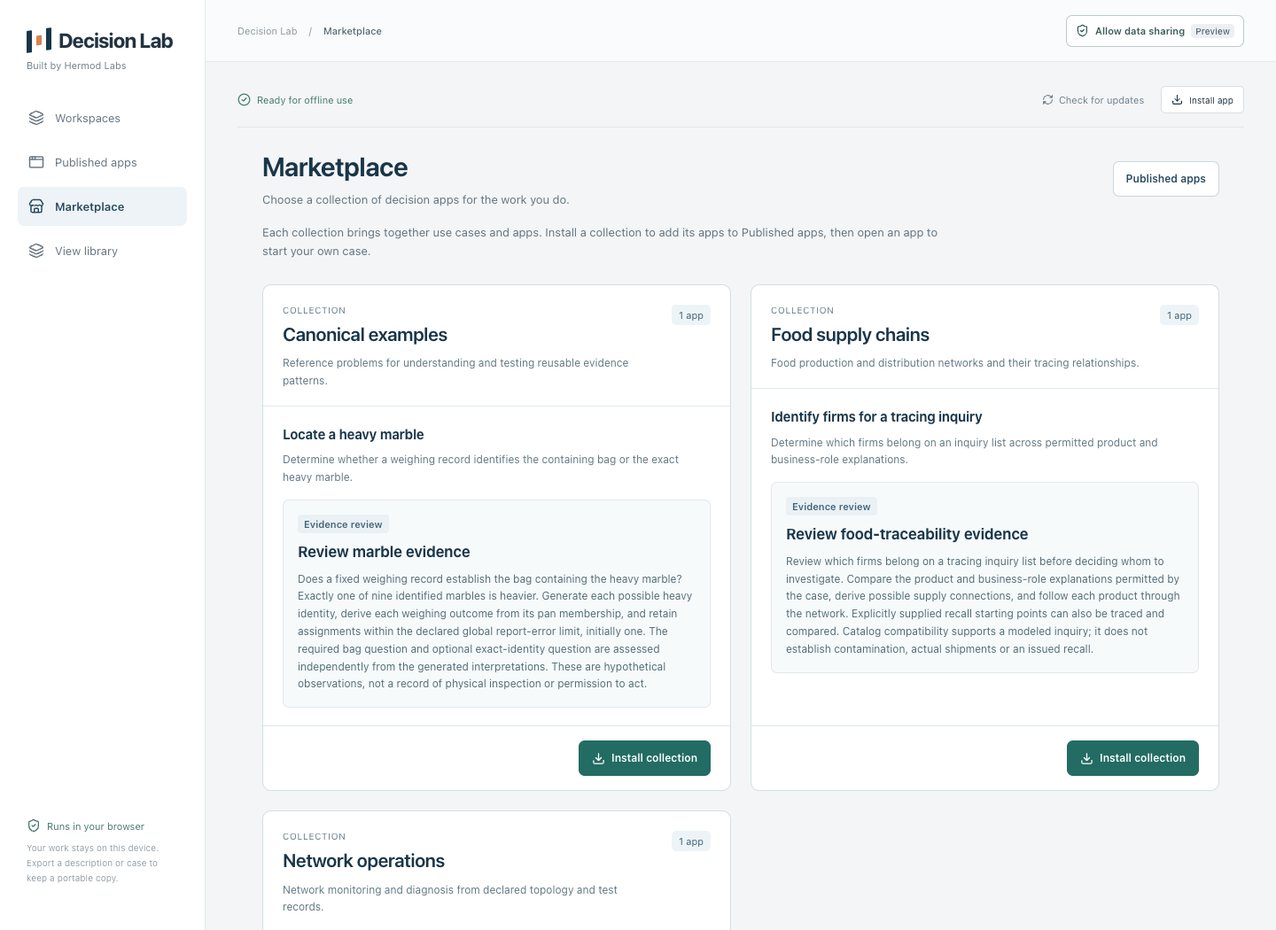
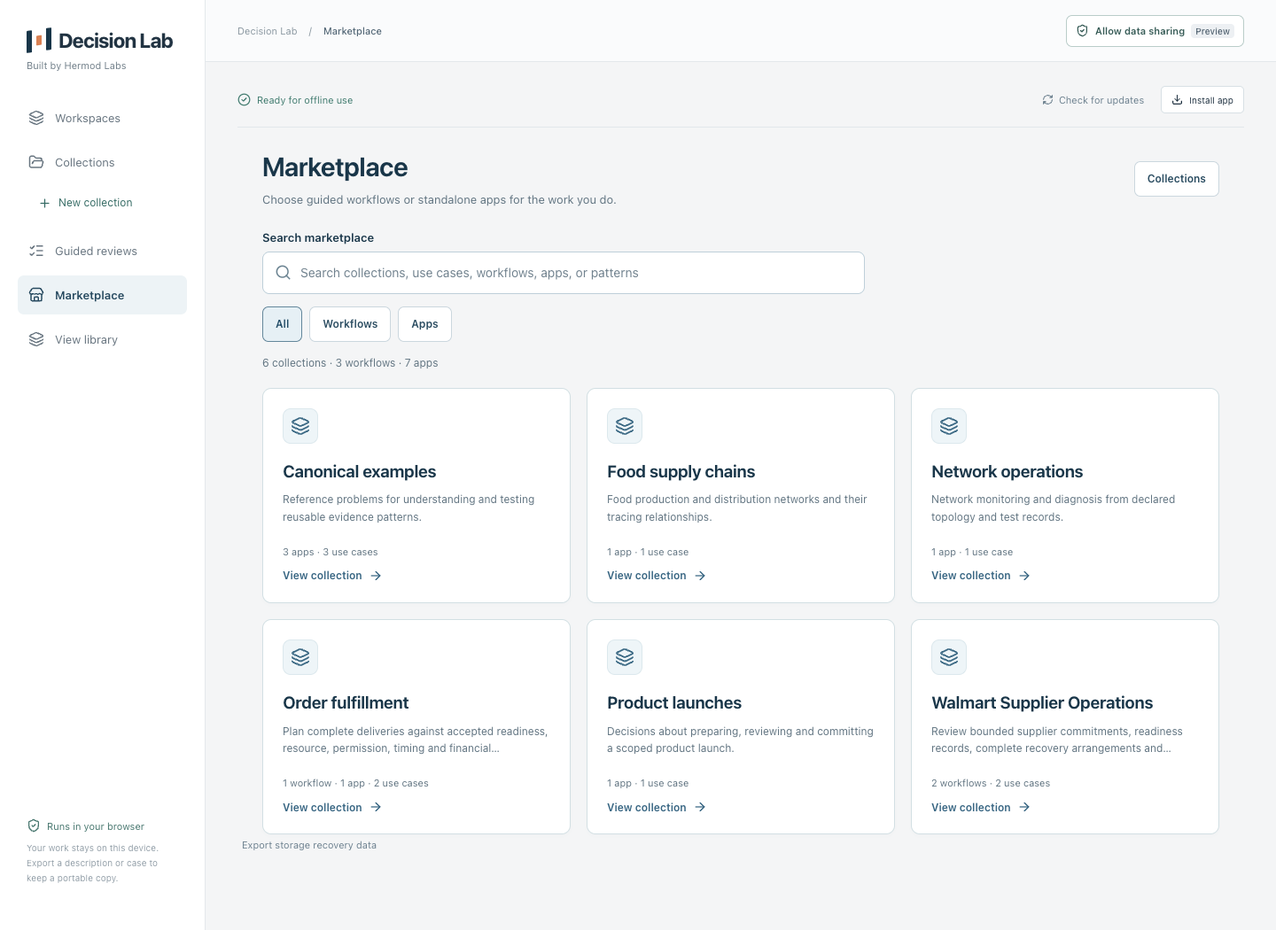
random changes

diff --git a/blog/announcing-decisionlab-marketplace/index.html b/blog/announcing-decisionlab-marketplace/index.html
@@ -15,17 +15,18 @@
 
 
   <title>Announcing DecisionLab Marketplace | Hermod Labs</title>
-  <meta name="description" content="Reusable templates become apps for your domain. Install a collection, choose a use case, and start your own case.">
+  <meta name="description" content="Find apps and guided workflows for your domain. Install a collection, open a case, review Excel input changes, and inspect the findings.">
   <meta name="author" content="Jonathan Nacionales, Founder, Hermod Labs">
 
   <link rel="canonical" href="https://hermodlabs.com/blog/announcing-decisionlab-marketplace/">
   <meta property="og:type" content="article">
   <meta property="og:site_name" content="Hermod Labs">
   <meta property="og:title" content="Announcing DecisionLab Marketplace | Hermod Labs">
-  <meta property="og:description" content="Reusable templates become apps for your domain. Install a collection, choose a use case, and start your own case.">
+  <meta property="og:description" content="Find apps and guided workflows for your domain. Install a collection, open a case, review Excel input changes, and inspect the findings.">
   <meta property="og:url" content="https://hermodlabs.com/blog/announcing-decisionlab-marketplace/">
   <meta property="og:image" content="https://hermodlabs.com/assets/hermod-wordmark.jpeg">
   <meta property="article:published_time" content="2026-11-14T00:00:00Z">
+  <meta property="article:modified_time" content="2026-11-17T00:00:00Z">
 
   <meta property="article:author" content="Jonathan Nacionales, Founder, Hermod Labs">
 
@@ -86,9 +87,9 @@
 </nav>
 
   <h1>Announcing DecisionLab Marketplace</h1>
-  <p class="reading-description blog-description">Reusable templates become apps for your domain. Install a collection, choose a use case, and start your own case.</p>
+  <p class="reading-description blog-description">Find apps and guided workflows for your domain. Install a collection, open a case, review Excel input changes, and inspect the findings.</p>
 
-  <p class="reading-meta blog-meta"><span class="article-author">Jonathan Nacionales, Founder, Hermod Labs</span> <span aria-hidden="true">·</span> <time datetime="2026-11-14">November 14, 2026</time> <span aria-hidden="true">·</span> 7 min read</p>
+  <p class="reading-meta blog-meta"><span class="article-author">Jonathan Nacionales, Founder, Hermod Labs</span> <span aria-hidden="true">·</span> <time datetime="2026-11-14">November 14, 2026</time> <span aria-hidden="true">·</span> <span class="blog-updated">Updated <time datetime="2026-11-17">November 17, 2026</time></span> <span aria-hidden="true">·</span> 9 min read</p>
   </div>
 
   <figure class="blog-article-cover reading-cover">
@@ -119,114 +120,153 @@
   <article class="reader-prose blog-prose" aria-label="Announcing DecisionLab Marketplace">
     <div class="reader-content">
 
-<p class="reader-lead">We’re introducing <strong>DecisionLab Marketplace</strong>: a place to discover and install decision apps organized around the work you do. Choose a domain collection, find a use case, and open an app to work on your own case.</p>
-<p>The idea connects three kinds of work. Template authors create reusable reasoning templates. App authors configure those templates for a particular domain and question. Case workers use the resulting apps with their own facts and evidence. Marketplace brings those apps together so people can find and use them.</p>
-<p><a href="https://hermodlabs.github.io/review_lab/">Open Decision Lab</a> and choose <strong>Marketplace</strong> in the sidebar to explore the collections available today.</p>
+<p class="reader-lead"><strong>DecisionLab Marketplace</strong> brings together apps and guided workflows for the decisions people work on. Find a collection for your domain, inspect the use cases it supports, and install it into your own Collections.</p>
+<p>From there, open an app for a particular case or start a guided review that connects several apps. Supply the information for your situation, inspect the findings, and decide what needs attention next.</p>
+<p>The idea connects three kinds of work. Template authors create reusable reasoning structures. App authors configure them for a domain and question, and connect apps into workflows where needed. Case workers use those published reviews with their own facts and evidence.</p>
+<p>The walkthrough below follows the current <strong>Food supply chains</strong> collection, from discovering its app to changing case inputs through Excel and reading the result. <a href="https://hermodlabs.github.io/review_lab/">Open Decision Lab</a> and choose <strong>Marketplace</strong> to follow along.</p>
 
 <h2 id="reusable-reasoning">A reusable foundation for domain apps</h2>
 <p>Many decisions share a structure even when their subject matter differs. A network operator may ask which equipment a set of test results implicates. A supply-chain analyst may ask which firms belong on a tracing inquiry list. Each needs to understand what the available evidence establishes, which explanations remain possible, and where an answer is still unresolved.</p>
-<p>A template captures that reusable reasoning structure. An app gives it the vocabulary, rules, questions, and starting information for a particular kind of work. A case supplies the specific situation being examined.</p>
-<p>The current collections illustrate this with the <strong>Evidence review</strong> pattern, built on the <strong>Establish the required answer</strong> template. Food tracing, network diagnosis, and the heavy-marble reference example use that shared foundation while keeping their own domain meanings and assumptions.</p>
+<p>A <strong>template</strong> captures a reusable checking or reasoning structure. An <strong>app</strong> gives it the vocabulary, rules, questions, and starting information for a particular kind of work. A <strong>case</strong> is a saved review of one situation, with its particular facts and evidence.</p>
+<p>Food tracing, network diagnosis, and the heavy-marble reference example illustrate the <strong>Evidence review</strong> pattern, built on the <strong>Establish the required answer</strong> template. They share a foundation while keeping their own domain meanings and assumptions. Other reviews examine whether a complete arrangement meets its requirements or whether learning something before committing would be useful.</p>
 
 <h2 id="three-roles">Three roles, connected by the same model</h2>
 
 <h3 id="template-authors">Template authors create the reusable structure</h3>
-<p>The template creation tool is where template authors define a reusable kind of reasoning: the information a model needs, the rules for assessing a question, and the findings and reports it can produce. They establish what the template’s results mean and the conditions under which the reasoning can be used.</p>
+<p>Template authors define a reusable kind of reasoning: the information a model needs, the structure for assessing a question, and the findings and reports it can produce. The tools for authoring templates capture that definition so it can be reused. Authors establish what the results mean and the conditions under which the reasoning can be used.</p>
 <p>That work gives app authors a common foundation. An evidence-review template, for example, provides a way to examine the explanations compatible with a record and determine whether they establish the required answer.</p>
 
 <h3 id="app-authors">App authors configure it for a domain and use case</h3>
 <p>App authors turn the template into something a domain specialist can use. They define the relevant objects and relationships, the possible explanations, the evidence rules, the questions to ask, and the wording of the reports. They also supply the app’s starting case and defaults.</p>
 <p>For food tracing, that means firms, products, business roles, and possible supply relationships. For network diagnosis, it means equipment, network paths, and test reports. The shared reasoning pattern remains useful because these domain meanings are made explicit.</p>
-<p>In the current browser application, authors work in <strong>Workspaces</strong>, starting from a template or an editable example. The authoring interface uses YAML with reports alongside it. Publishing an app fixes its rules and starting defaults in a release that other people can use.</p>
+<p>Authors prepare their models in <strong>Workspaces</strong>, starting from a template or an editable example and inspecting the reports alongside the configuration. Publishing an app fixes its rules and starting defaults in a release that other people can use.</p>
+<p>For a decision that needs several connected reviews, an author can prepare a <strong>guided workflow</strong>: which questions people answer, who reviews them, which apps calculate findings, and how those findings feed the next step. The workflow keeps the shared case information and the included app versions connected.</p>
 
 <h3 id="case-workers">Case workers apply the app to a specific situation</h3>
-<p>Case workers—analysts, reviewers, operators, and the people responsible for the work—open a published app and start an independent case. They provide the facts, evidence, scope, and exposed parameters for that situation, then inspect the resulting findings and explanations.</p>
-<p>They can revise the case as information changes. The published app supplies the shared rules; changes to those rules belong in a new authored app release. This lets an app author maintain a reusable model while different people work on separate cases.</p>
+<p>Case workers—analysts, reviewers, operators, and the people responsible for the work—open an app or start a guided review from an installed collection. They supply and review the information for their situation, then inspect the findings and explanations.</p>
+<p>An app can expose its case inputs through an Excel workbook, alongside the YAML editor and reports. A guided review also organizes questions, responsibilities, and the acceptance of calculated findings. Importing inputs, accepting a review result, and authorizing an actual business action are separate activities.</p>
+<p>Workers can revise case information as conditions change. The published release supplies the shared rules; changing those rules requires a new authored release. Separate cases can therefore use the same model without becoming the same investigation or decision.</p>
 
 <h2 id="collections-and-use-cases">Organized around your domain and the question you need to answer</h2>
-<p>We organize the apps into <strong>collections</strong> for specific domains. Within a collection, <strong>use cases</strong> describe the work or question. Each use case groups the <strong>apps</strong> that support it.</p>
-<div class="blog-table-scroll" role="region" tabindex="0" aria-label="Domain collections, use cases, and apps available at launch">
+<p>We organize apps and workflows into <strong>collections</strong> for specific domains. Within each collection, <strong>use cases</strong> describe the work or question. Each use case groups the apps and guided workflows that support it.</p>
+<div class="blog-table-scroll" role="region" tabindex="0" aria-label="Examples of domain collections, use cases, apps and workflows">
   <table>
-    <caption>Collections available in the Marketplace on November 14, 2026</caption>
-    <thead><tr><th scope="col">Domain collection</th><th scope="col">Use case</th><th scope="col">App</th></tr></thead>
+    <caption>Examples from the Marketplace</caption>
+    <thead><tr><th scope="col">Domain collection</th><th scope="col">Use case</th><th scope="col">App or workflow</th></tr></thead>
     <tbody>
       <tr><th scope="row">Food supply chains</th><td>Identify firms for a tracing inquiry</td><td>Review food-traceability evidence</td></tr>
       <tr><th scope="row">Network operations</th><td>Locate network faults</td><td>Localize network faults</td></tr>
       <tr><th scope="row">Canonical examples</th><td>Locate a heavy marble</td><td>Review marble evidence</td></tr>
+      <tr><th scope="row">Order fulfillment</th><td>Review a first shipment</td><td>Review a first shipment (guided workflow)</td></tr>
     </tbody>
   </table>
 </div>
-<p>This gives you two ways to recognize a useful app: the domain tells you where it belongs, and the use case tells you what it helps you examine. The pattern badge identifies the reusable reasoning behind it. A collection brings the relevant apps together in one installable group.</p>
+<p>The domain tells you where a collection belongs; the use case tells you what its apps and workflows help you examine. The <strong>All</strong>, <strong>Workflows</strong>, and <strong>Apps</strong> filters help you browse the kind of review you need.</p>
+<p>A <strong>standalone app</strong> answers its configured question for an independent case. A <strong>guided workflow</strong> connects several questions and app results into one review. In Collections, use <strong>Use app</strong> for an app or <strong>Start review</strong> for a workflow. The <a href="../../use-cases/shipment-readiness/index.html">shipment readiness use case</a> explains how connected reviews fit a wider business process.</p>
 
 <h2 id="install-a-collection">Install a collection in Decision Lab</h2>
-<p>Here is the process using <strong>Food supply chains</strong>. These screenshots come from the public application, captured in a fresh browser session on November 14, 2026.</p>
+<p>Start with <strong>Food supply chains</strong>. Its app helps examine which firms belong on a tracing inquiry list under the supplied evidence and assumptions. The worked case is fictional; use it to learn the process before replacing its information with your own.</p>
 
 <h3 id="open-marketplace">1. Open Marketplace and find your collection</h3>
-<p>Go to <a href="https://hermodlabs.github.io/review_lab/">Decision Lab</a> and select <strong>Marketplace</strong> in the sidebar. The collection cards show the domain, its use cases, and the apps included.</p>
-<p>Find <strong>Food supply chains</strong>. Its use case is <strong>Identify firms for a tracing inquiry</strong>, and the included app is <strong>Review food-traceability evidence</strong>. Read that description to check that it addresses the question you have.</p>
+<p>Go to <a href="https://hermodlabs.github.io/review_lab/">Decision Lab</a> and select <strong>Marketplace</strong> in the sidebar. Search by the work you do or browse the collection cards. Each card summarizes its domain and the apps, workflows, and use cases it contains.</p>
 
 
 
 <figure class="blog-figure" id="figure-1">
   <div class="blog-figure-scroll" role="region" tabindex="0" aria-labelledby="figure-1-caption">
-    <a href="../../assets/blog/marketplace/figure-01.png" aria-label="Open screenshot 1 at full size"><img src="../../assets/blog/marketplace/figure-01.png" width="1440" height="1050" alt="Decision Lab Marketplace with Canonical examples and Food supply chains collection cards. Food supply chains contains Identify firms for a tracing inquiry and Review food-traceability evidence, followed by an Install collection button." loading="lazy" decoding="async"></a>
+    <a href="../../assets/blog/marketplace/figure-01.png" aria-label="Open screenshot 1 at full size"><img src="../../assets/blog/marketplace/figure-01.png" width="1440" height="1050" alt="Decision Lab Marketplace with six compact collection cards, search, and All, Workflows and Apps filters." loading="lazy" decoding="async"></a>
   </div>
   <p class="scroll-hint blog-figure-hint">Scroll to inspect the screenshot, or open it at full size.</p>
-  <figcaption id="figure-1-caption"><strong>Screenshot 1.</strong> Open Marketplace and choose a domain collection. The Food supply chains card shows its use case and app, with Install collection at the bottom. <a href="../../assets/blog/marketplace/figure-01.png">Open full size</a></figcaption>
+  <figcaption id="figure-1-caption"><strong>Screenshot 1.</strong> Browse domain collections, then open a collection to inspect its use cases, apps and guided workflows. <a href="../../assets/blog/marketplace/figure-01.png">Open full size</a></figcaption>
 </figure>
 
 
-<h3 id="install-collection">2. Select Install collection</h3>
-<p>Select <strong>Install collection</strong> on the Food supply chains card. Decision Lab adds the collection’s published apps to this browser and automatically opens <strong>Published apps</strong>.</p>
-<p>You will now see the installed collection grouped by use case, with its app version and controls for using, sharing, or exporting the app.</p>
+<h3 id="install-collection">2. Inspect the collection, then install it</h3>
+<p>Select <strong>View collection</strong> on the Food supply chains card. The details show the use case <strong>Identify firms for a tracing inquiry</strong> and its standalone app, <strong>Review food-traceability evidence</strong>. Read the question and scope to check that they fit your work.</p>
 
 
 
 <figure class="blog-figure" id="figure-2">
   <div class="blog-figure-scroll" role="region" tabindex="0" aria-labelledby="figure-2-caption">
-    <a href="../../assets/blog/marketplace/figure-02.png" aria-label="Open screenshot 2 at full size"><img src="../../assets/blog/marketplace/figure-02.png" width="1440" height="1050" alt="Published apps after installing Food supply chains. A use-case row contains Review food-traceability evidence, version 1, with Use app, Copy app link, and Export controls." loading="lazy" decoding="async"></a>
+    <a href="../../assets/blog/marketplace/figure-02.png" aria-label="Open screenshot 2 at full size"><img src="../../assets/blog/marketplace/figure-02.png" width="1440" height="1050" alt="Food supply chains collection details showing Identify firms for a tracing inquiry, Review food-traceability evidence, and Install collection." loading="lazy" decoding="async"></a>
   </div>
   <p class="scroll-hint blog-figure-hint">Scroll to inspect the screenshot, or open it at full size.</p>
-  <figcaption id="figure-2-caption"><strong>Screenshot 2.</strong> After installation, Decision Lab opens Published apps. The Food supply chains collection is now available locally, with Use app beside its published release. <a href="../../assets/blog/marketplace/figure-02.png">Open full size</a></figcaption>
+  <figcaption id="figure-2-caption"><strong>Screenshot 2.</strong> Food supply chains contains a tracing-inquiry use case and its evidence-review app. Install collection adds this release to Collections on this device. <a href="../../assets/blog/marketplace/figure-02.png">Open full size</a></figcaption>
 </figure>
 
-<p>The <strong>Install collection</strong> button belongs to the collection card. The separate <strong>Install app</strong> control at the top concerns installing Decision Lab itself as a browser app.</p>
-
-<h2 id="from-app-to-case">From an installed app to your own case</h2>
-
-<h3 id="use-app">3. Choose Use app</h3>
-<p>Under Review food-traceability evidence, select <strong>Use app</strong>. This creates an independent case from that app’s published defaults. Installing the collection makes the apps available; opening an app starts the case you will work on.</p>
-<p>The current interface lets you edit the <strong>case YAML</strong> and inspect <strong>Findings</strong>, <strong>Explanations</strong>, and the <strong>Review record</strong>. Valid case YAML updates the reports automatically, and <strong>Run review</strong> is also available.</p>
+<p>Choose <strong>Install collection</strong> in this details panel. Decision Lab installs the collection and opens <strong>Collections</strong>, with Food supply chains selected. Its name also appears beneath Collections in the sidebar.</p>
 
 
 
 <figure class="blog-figure" id="figure-3">
   <div class="blog-figure-scroll" role="region" tabindex="0" aria-labelledby="figure-3-caption">
-    <a href="../../assets/blog/marketplace/figure-03.png" aria-label="Open screenshot 3 at full size"><img src="../../assets/blog/marketplace/figure-03.png" width="1440" height="1050" alt="A new food-traceability evidence case showing editable canonical case YAML on the left and Findings on the right. The synthetic example has an established Pacific Market inquiry finding and an unresolved Lake Market finding." loading="lazy" decoding="async"></a>
+    <a href="../../assets/blog/marketplace/figure-03.png" aria-label="Open screenshot 3 at full size"><img src="../../assets/blog/marketplace/figure-03.png" width="1440" height="1050" alt="Installed Food supply chains collection with Review food-traceability evidence, version 4, and its Use app control." loading="lazy" decoding="async"></a>
   </div>
   <p class="scroll-hint blog-figure-hint">Scroll to inspect the screenshot, or open it at full size.</p>
-  <figcaption id="figure-3-caption"><strong>Screenshot 3.</strong> Use app starts an independent case from the published defaults. The current interface places case YAML beside Findings, Explanations, and Review record. This is the supplied synthetic example. <a href="../../assets/blog/marketplace/figure-03.png">Open full size</a></figcaption>
+  <figcaption id="figure-3-caption"><strong>Screenshot 3.</strong> The installed collection opens in Collections. Use app starts a separate case from this published release. <a href="../../assets/blog/marketplace/figure-03.png">Open full size</a></figcaption>
 </figure>
 
-<p>The screenshot shows the supplied synthetic food-tracing example. Its findings concern the modeled inquiry and its assumptions. For your own case, review the starting inputs, enter the relevant information, and inspect the explanations and scope of the result. The app’s finding supports your review; people remain responsible for investigation and action.</p>
+<p>The table groups installed products by use case. This collection contains a standalone app with <strong>Use app</strong>. Collections that include guided workflows also offer <strong>Start review</strong>. The separate <strong>Install app</strong> control near the top installs Decision Lab itself as a browser app.</p>
 
-<h3 id="return-to-your-apps">4. Return to the installed collection</h3>
-<p>You can return to <strong>Published apps</strong> to find the releases you installed. In Marketplace, the collection now shows <strong>Installed</strong> and <strong>View apps</strong>, giving you a direct route back to those apps.</p>
+<h2 id="from-app-to-case">From an installed app to your own case</h2>
+
+<h3 id="use-app">3. Choose Use app</h3>
+<p>Under Review food-traceability evidence, select <strong>Use app</strong>. This starts an independent case with the supplied fictional inputs. Installing a collection makes its products available; opening an app creates the case you will work on.</p>
+<p>The layout control offers <strong>YAML</strong>, <strong>Both</strong>, and <strong>Reports</strong>. Choose Both to see the case inputs alongside the findings. The input area also provides <strong>Download Excel</strong>, <strong>Upload Excel</strong>, and <strong>Start another case</strong>.</p>
 
 
 
 <figure class="blog-figure" id="figure-4">
   <div class="blog-figure-scroll" role="region" tabindex="0" aria-labelledby="figure-4-caption">
-    <a href="../../assets/blog/marketplace/figure-04.png" aria-label="Open screenshot 4 at full size"><img src="../../assets/blog/marketplace/figure-04.png" width="1440" height="1050" alt="Marketplace after installation. The Food supply chains collection now displays Installed and View apps, while the other collections still offer Install collection." loading="lazy" decoding="async"></a>
+    <a href="../../assets/blog/marketplace/figure-04.png" aria-label="Open screenshot 4 at full size"><img src="../../assets/blog/marketplace/figure-04.png" width="1440" height="1050" alt="A fictional food-traceability case with Download Excel, Upload Excel, Start another case, canonical YAML, and findings for Pacific Market and Lake Market." loading="lazy" decoding="async"></a>
   </div>
   <p class="scroll-hint blog-figure-hint">Scroll to inspect the screenshot, or open it at full size.</p>
-  <figcaption id="figure-4-caption"><strong>Screenshot 4.</strong> Return to Marketplace to see the collection marked Installed. View apps takes you back to the releases you installed. <a href="../../assets/blog/marketplace/figure-04.png">Open full size</a></figcaption>
+  <figcaption id="figure-4-caption"><strong>Screenshot 4.</strong> Both places the supplied fictional case inputs beside the findings. Download Excel and Upload Excel offer a workbook route for editing those inputs. <a href="../../assets/blog/marketplace/figure-04.png">Open full size</a></figcaption>
 </figure>
 
-<p>Your work is saved in this browser. Use <strong>Export case</strong> to keep a portable copy of a case. <strong>Copy app link</strong> shares the published app version and its starting defaults, so another person can begin a separate case.</p>
+<p>The starting information helps you explore the app. Review every supplied value before using the case for your own work. The published app’s rules remain fixed while you change the case’s facts, evidence, and exposed parameters.</p>
+
+<h3 id="review-excel-inputs">4. Bring case information through Excel</h3>
+<p>Select <strong>Download Excel</strong> to get a workbook prefilled with this case’s inputs. Open <strong>What you can edit in Excel</strong> to see which inputs are mapped to worksheets. Edit those input sheets, keeping the workbook’s structure and reference information in place.</p>
+<p>For this example, change <strong>Firm to review</strong> on the <strong>Parameters</strong> worksheet from <code>F11</code> (Pacific Market) to <code>F09</code> (Lake Market). The other supplied facts stay the same.</p>
+<p>Save the workbook, then choose <strong>Upload Excel</strong>. Decision Lab opens <strong>Review workbook changes</strong>, where you can inspect the added, removed, and changed inputs before applying them.</p>
+
+
+
+<figure class="blog-figure" id="figure-5">
+  <div class="blog-figure-scroll" role="region" tabindex="0" aria-labelledby="figure-5-caption">
+    <a href="../../assets/blog/marketplace/figure-05.png" aria-label="Open screenshot 5 at full size"><img src="../../assets/blog/marketplace/figure-05.png" width="1440" height="1050" alt="Review workbook changes dialog showing Parameters: Firm to review, with zero added, zero removed, and one changed value, plus Cancel and Apply inputs." loading="lazy" decoding="async"></a>
+  </div>
+  <p class="scroll-hint blog-figure-hint">Scroll to inspect the screenshot, or open it at full size.</p>
+  <figcaption id="figure-5-caption"><strong>Screenshot 5.</strong> Uploading the edited workbook previews one change to Firm to review. The current inputs remain unchanged until Apply inputs is selected. <a href="../../assets/blog/marketplace/figure-05.png">Open full size</a></figcaption>
+</figure>
+
+<p>Check the proposed case inputs and choose <strong>Apply inputs</strong>. Uploading the workbook creates a preview; applying it updates the case. If the workbook needs attention, use the worksheet and cell details to correct the issue and try again.</p>
+<p>This changes the information in the case. The app continues to use the same published rules.</p>
+
+<h3 id="read-the-findings">5. Read the findings and their explanations</h3>
+<p>Wait for <strong>Reports current</strong>, then choose the <strong>Reports</strong> layout. In this app, <strong>Findings</strong> gives the answers, <strong>Explanations</strong> lets you examine their basis, and <strong>Review record</strong> preserves the review context. <strong>Run review</strong> is also available when you want to run the current inputs again.</p>
+
+
+
+<figure class="blog-figure" id="figure-6">
+  <div class="blog-figure-scroll" role="region" tabindex="0" aria-labelledby="figure-6-caption">
+    <a href="../../assets/blog/marketplace/figure-06.png" aria-label="Open screenshot 6 at full size"><img src="../../assets/blog/marketplace/figure-06.png" width="1440" height="1050" alt="Reports layout for the Lake Market tracing inquiry, showing Still open findings and the scope and assumptions controls." loading="lazy" decoding="async"></a>
+  </div>
+  <p class="scroll-hint blog-figure-hint">Scroll to inspect the screenshot, or open it at full size.</p>
+  <figcaption id="figure-6-caption"><strong>Screenshot 6.</strong> After Apply inputs, Reports shows the case focused on Lake Market. Its inclusion remains Still open under the unchanged rules and evidence. <a href="../../assets/blog/marketplace/figure-06.png">Open full size</a></figcaption>
+</figure>
+
+<p>The case now reviews <strong>Lake Market</strong>, whose inclusion remains <strong>Still open</strong>. The supplied information leaves that question unresolved; changing the firm under review supplies no additional evidence to settle it.</p>
+<p><strong>Established</strong> means the modeled question has a definite answer under the recorded evidence and assumptions. That answer can establish inclusion or absence. <strong>Still open</strong> means the permitted explanations do not establish one answer. Inspect the explanations and <strong>Scope and assumptions</strong> before deciding what to investigate or do next.</p>
+<p>The app helps examine a tracing inquiry. Its result does not establish contamination, actual shipments, or an issued recall.</p>
+
+<h3 id="return-to-your-apps">6. Resume this case or start another</h3>
+<p>Your work is saved in this browser. Return to <strong>Collections → Food supply chains</strong> and find <strong>Saved cases</strong>, then choose <strong>Resume case</strong> to continue the existing review. <strong>Start another case</strong> creates a separate case from the app’s published starting inputs.</p>
+<p>Use <strong>Export case</strong> to keep a portable copy. <strong>Copy app link</strong> shares the app version and its starting defaults so someone else can begin their own case.</p>
 
 <h2 id="start-with-your-domain">Start with your domain</h2>
-<p>To try it, <a href="https://hermodlabs.github.io/review_lab/">open Decision Lab</a>, choose <strong>Marketplace</strong>, and install a collection for the work you want to explore.</p>
+<p>To try it, <a href="https://hermodlabs.github.io/review_lab/">open Decision Lab</a>, choose <strong>Marketplace</strong>, inspect a collection, and install the reviews that fit your work. Start with the supplied example, then bring in the information for your own case.</p>
 </div>
 
 

diff --git a/index.html b/index.html
@@ -78,21 +78,27 @@
     </div>
   <figure class="hero-app-preview">
     <a class="hero-app-preview-image" href="assets/decision-lab-hero.png" aria-label="View the Decision Lab screenshot at full size" tabindex="-1">
-      <img src="assets/decision-lab-hero.png" width="2880" height="2000" fetchpriority="high" decoding="async" alt="Decision Lab showing a synthetic food-traceability case, with YAML inputs beside findings marked Established and Still open.">
+      <img src="assets/decision-lab-hero.png" width="2880" height="2000" fetchpriority="high" decoding="async" alt="Decision Lab’s updated interface showing a fictional food-traceability review, with collection navigation and findings marked Established and Still open.">
     </a>
-    <figcaption><span>A synthetic food-traceability case in Decision Lab.</span><a href="assets/decision-lab-hero.png">View full size <span aria-hidden="true">↗</span></a></figcaption>
+    <figcaption><span>A fictional food-traceability review in Decision Lab.</span><a href="assets/decision-lab-hero.png">View full size <span aria-hidden="true">↗</span></a></figcaption>
   </figure>
   </div>
 </section>
 
 
+
+
+
+
 <section class="section wrap" aria-labelledby="example-heading">
   <div class="application-example" id="home-application-example">
     <div class="application-example-copy">
+
       <p class="eyebrow">Developer tools for Decision Lab</p>
       <h2 id="example-heading">From models<br><em>to applications.</em></h2>
       <p>We built Hermod.gg using Decision Lab to explore League of Legends team compositions and understand how individual picks work together.</p>
       <p>The Decision Lab CLI and SDK are coming soon for developers building their own tools and applications. Build around your domain and your users, or work with us on the model, custom code, and reports.</p>
+
       <a class="text-link" href="https://hermod.gg/">Explore Hermod.gg <span aria-hidden="true">↗</span></a>
     </div>
     <figure>
@@ -205,9 +211,9 @@
   </a>
 
   <div class="reading-card-content blog-card-content">
-    <p class="reading-card-meta blog-card-meta"><time datetime="2026-11-14">November 14, 2026</time><span aria-hidden="true">·</span><span>7 min read</span></p>
+    <p class="reading-card-meta blog-card-meta"><time datetime="2026-11-14">November 14, 2026</time><span aria-hidden="true">·</span><span>9 min read</span></p>
     <h3 class="reading-card-title"><a href="blog/announcing-decisionlab-marketplace/index.html">Announcing DecisionLab Marketplace</a></h3>
-    <p class="reading-card-description blog-card-description">Reusable templates become apps for your domain. Install a collection, choose a use case, and start your own case.</p>
+    <p class="reading-card-description blog-card-description">Find apps and guided workflows for your domain. Install a collection, open a case, review Excel input changes, and inspect the findings.</p>
     <a class="text-link reading-card-action" href="blog/announcing-decisionlab-marketplace/index.html" aria-label="Read Announcing DecisionLab Marketplace">Read post <span aria-hidden="true">→</span></a>
   </div>
 </article>

diff --git a/products/index.html b/products/index.html
@@ -150,6 +150,30 @@ try {
     <p>Need help with custom development? <a class="text-link" href="../professional-services/index.html#services-inquiry">Discuss your project with us <span aria-hidden="true">→</span></a></p>
   </div>
 </section>
+
+
+
+
+
+
+<section class="section wrap" aria-labelledby="products-application-heading">
+  <div class="application-example" id="products-application-example">
+    <div class="application-example-copy">
+
+      <p class="eyebrow">From models to applications</p>
+      <h2 id="products-application-heading">Hermod.gg.<br><em>Built on Decision Lab.</em></h2>
+      <p>We built Hermod.gg using Decision Lab to explore League of Legends team compositions and understand how individual picks work together.</p>
+      <p>It shows how a model of a specific domain can become a useful application. Build around your own users, workflows, and reports.</p>
+
+      <a class="text-link" href="https://hermod.gg/">Explore Hermod.gg <span aria-hidden="true">↗</span></a>
+    </div>
+    <figure>
+      <img src="../assets/hermod-gg-composition.png" width="2836" height="776" loading="lazy" decoding="async" alt="Hermod.gg team composition view showing five champion picks on each side.">
+      <figcaption>Team composition in Hermod.gg, built using Decision Lab. Champion imagery © Riot Games.</figcaption>
+    </figure>
+  </div>
+</section>
+
 </main>
   <footer class="site-footer">
   <div class="wrap">

diff --git a/blog/index.html b/blog/index.html
@@ -95,9 +95,9 @@
   </a>
 
   <div class="reading-card-content blog-card-content">
-    <p class="reading-card-meta blog-card-meta"><time datetime="2026-11-14">November 14, 2026</time><span aria-hidden="true">·</span><span>7 min read</span></p>
+    <p class="reading-card-meta blog-card-meta"><time datetime="2026-11-14">November 14, 2026</time><span aria-hidden="true">·</span><span>9 min read</span></p>
     <h3 class="reading-card-title"><a href="announcing-decisionlab-marketplace/index.html">Announcing DecisionLab Marketplace</a></h3>
-    <p class="reading-card-description blog-card-description">Reusable templates become apps for your domain. Install a collection, choose a use case, and start your own case.</p>
+    <p class="reading-card-description blog-card-description">Find apps and guided workflows for your domain. Install a collection, open a case, review Excel input changes, and inspect the findings.</p>
     <a class="text-link reading-card-action" href="announcing-decisionlab-marketplace/index.html" aria-label="Read Announcing DecisionLab Marketplace">Read post <span aria-hidden="true">→</span></a>
   </div>
 </article>

diff --git a/assets/SOURCES.md b/assets/SOURCES.md
@@ -11,7 +11,7 @@ Downloaded 2026-09-23 for the Hermod Labs corporate rebuild:
 
 `hermod-wordmark-dark.png` is an existing repository asset retained for the standalone legacy League prototype pages.
 
-`decision-lab-hero.png` is an unedited 2880 × 2000 capture of `https://hermodlabs.github.io/review_lab/`, taken on 14 November 2026 in a fresh Chrome context at a 1440 × 1000 viewport and 2× device scale. It shows the supplied synthetic FOOD-MINI-1 case in **Review food-traceability evidence**, app version 4, with YAML inputs alongside the Findings / Firm inclusion view. The case retains its published defaults; no interface labels, evidence, or results were changed. The homepage hero displays the complete frame and links to the original image. `decision-lab-hero-capture.json` records the source, capture steps, release, dimensions, and hash.
+`decision-lab-hero.png` is an unedited 2880 × 2000 capture of `https://hermodlabs.github.io/review_lab/`, taken on 17 November 2026 in a fresh Chrome context at a 1440 × 1000 viewport and 2× device scale. It shows the supplied synthetic FOOD-MINI-1 case in **Review food-traceability evidence**, app version 4, in the updated Reports layout with Collections navigation and Findings / Firm inclusion. The case retains its published defaults; no interface labels, evidence, or results were changed. The homepage hero displays the complete frame and links to the original image. `decision-lab-hero-capture.json` records the source, deployment assets, capture steps, release, dimensions, and hash.
 
 `decision-lab-report-plan.png` is an actual 663 × 685 capture of the Free beta timing report, taken on 2026-11-10 from the `review_lab` static application using the exact model in `src/_data/homeExample.json`. The required-work section is expanded to show that reviewer independence remains unconfirmed. The screenshot contains fictional example names and no customer records. The former product-page presentation is retired; the capture remains an authoring reference.
 
@@ -75,11 +75,11 @@ The compositions draw on each article’s subject: report handoffs, complete arr
 
 ## Announcing DecisionLab Marketplace
 
-`blog/marketplace/` contains the assets for the announcement dated 14 November 2026.
+`blog/marketplace/` contains the assets for the announcement originally dated 14 November 2026 and revised on 17 November 2026.
 
 - `cover.svg` is an original hand-authored native vector illustration: an open template leads to a configured app grouped in a collection, then to a person’s working case. It uses the site’s established palette and is reused on the homepage, blog card, and article header. It contains no external artwork or raster image.
-- `figure-01.png` through `figure-04.png` are unedited 1440 × 1050 viewport captures of `https://hermodlabs.github.io/review_lab/` made in a fresh desktop Chrome browser context on 14 November 2026. They show Marketplace before installation, Published apps after installing Food supply chains, the independent case opened with Use app, and Marketplace’s Installed / View apps state. No interface labels, findings, or overlays were added to the captures.
-- The case screenshot uses the application’s supplied synthetic FOOD-MINI-1 example. It is not a customer record or a real tracing investigation. Installation and case creation affected only the temporary browser profile.
-- `capture-provenance.json` records the source URL, live catalog timestamp, selected collection/use case/app release, viewport, action sequence, captions, alternative text, and image hashes. `src/_data/marketplaceFigures.json` supplies the same images to the reader with intrinsic dimensions and full-size links.
+- `figure-01.png` through `figure-06.png` are unedited 1440 × 1050 viewport captures of `https://hermodlabs.github.io/review_lab/` made in a fresh desktop Chrome browser context on 17 November 2026. They show the Marketplace card grid, Food supply chains details dialog, installed collection in Collections, a standalone case with Excel input controls, the workbook change preview, and the resulting Reports view. No interface labels, findings, or overlays were added to the captures.
+- The case uses the application’s supplied synthetic FOOD-MINI-1 example. Its downloaded Excel workbook changes only Parameters / Firm to review, from Pacific Market (`F11`) to Lake Market (`F09`), before the upload is previewed and applied through the ordinary UI. The same published app, module, and case identity remain in place. The fictional data is not a customer record or a real tracing investigation. Installation, case creation, and input changes affected only the temporary browser profile.
+- `capture-provenance.json` records the source URL, deployed assets, selected collection/use case/app release, viewport, action sequence, workbook input difference, captions, alternative text, and image hashes. `src/_data/marketplaceFigures.json` supplies the same images to the reader with intrinsic dimensions and full-size links. `scripts/capture-marketplace.mjs` reproduces the captures and verifies the case input change with external Playwright and Chrome installations.
 
 The retired blog posts’ media and source-download bundles have been removed from the published asset tree.
